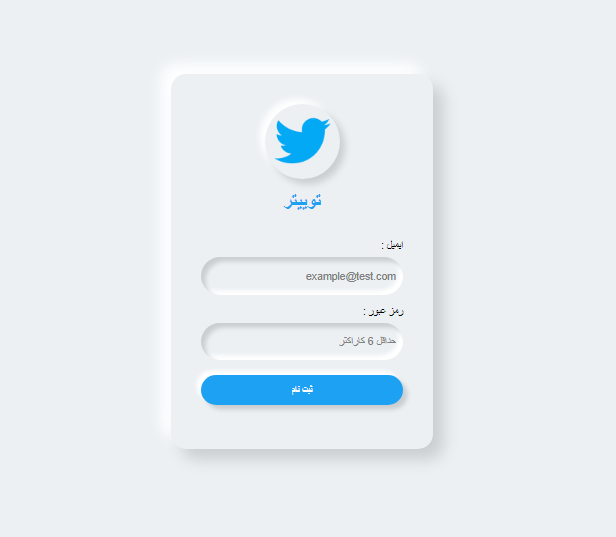
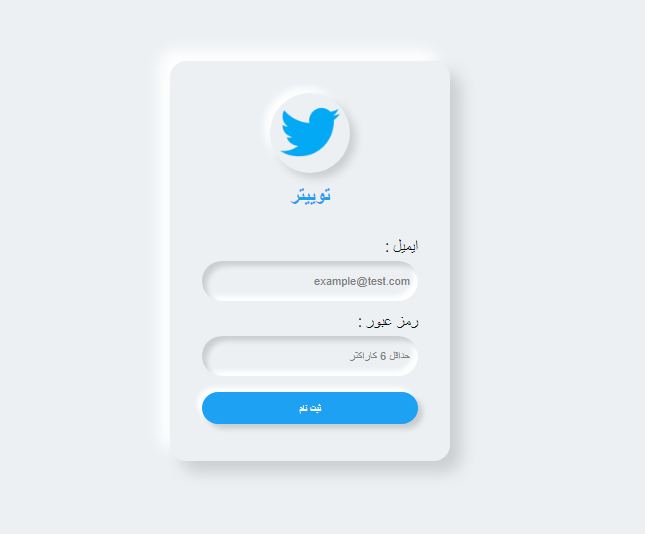
add form

diff --git a/Form1/components/Form/Form.js b/Form1/components/Form/Form.js
@@ -1,0 +1,130 @@
+import React from "react";
+import "./Form.css";
+
+export default class App extends React.Component {
+
+    constructor(props) {
+        super(props)
+
+        this.state = {
+            firstNameData: '',
+            lastNameData: '',
+            emailData: '',
+
+            submitted: false,
+
+            allValid: false
+        }
+
+        this.firstNameData = this.firstNameData.bind(this)
+        this.lastNameData = this.lastNameData.bind(this)
+        this.emailData = this.emailData.bind(this)
+        this.submitHandler = this.submitHandler.bind(this)
+    }
+
+    firstNameData(event) {
+        console.log('click');
+        this.setState({
+            firstNameData: event.target.value
+        })
+    }
+
+    lastNameData(event) {
+        console.log('click');
+        this.setState({
+            lastNameData: event.target.value
+        })
+    }
+    emailData(event) {
+        console.log('click');
+        this.setState({
+            emailData: event.target.value
+        })
+    }
+
+    submitHandler(event) {
+        let { firstNameData, lastNameData, emailData } = { ...this.state }
+
+        event.preventDefault()
+        this.setState({
+            submitted: true
+        })
+        
+        firstNameData && lastNameData && emailData && this.setState({
+            allValid: true
+        })
+
+        setTimeout(() => {
+            this.setState({
+                allValid: false
+            })
+        }, 4000)
+
+    }
+
+
+
+
+    render() {
+        return (
+            <div className="form-container">
+                <form className="register-form" onSubmit={this.submitHandler} autoComplete="off">
+                    {/* Uncomment the next line to show the success message */}
+                    {this.state.submitted && this.state.allValid && (
+                        <div className="success-message">Success! Thank you for registering</div>
+                    )}
+                    <input
+                        id="first-name"
+                        className="form-field"
+                        onChange={this.firstNameData}
+                        type="text"
+                        placeholder="First Name"
+                        name="firstName"
+                        value={this.state.firstNameData}
+                    />
+                    {/* Uncomment the next line to show the error message */}
+
+                    {this.state.submitted && !this.state.firstNameData && (
+                        <span id="first-name-error">Please enter a first name</span>
+                    )}
+
+                    <input
+                        id="last-name"
+                        className="form-field"
+                        onChange={this.lastNameData}
+                        type="text"
+                        placeholder="Last Name"
+                        name="lastName"
+                        value={this.state.lastNameData}
+
+                    />
+                    {/* Uncomment the next line to show the error message */}
+
+                    {this.state.submitted && !this.state.lastNameData && (
+                        <span id="last-name-error">Please enter a last name</span>
+                    )}
+
+                    <input
+                        id="email"
+                        className="form-field"
+                        onChange={this.emailData}
+                        type="text"
+                        placeholder="Email"
+                        name="email"
+                        value={this.state.emailData}
+                    />
+                    {/* Uncomment the next line to show the error message */}
+
+                    {this.state.submitted && !this.state.emailData && (
+                        <span id="email-error">Please enter an email address</span>
+                    )}
+
+                    <button className="form-field" type="submit">
+                        Register
+                    </button>
+                </form>
+            </div>
+
+        )
+    }
+}

diff --git a/Form/Form/Form.js b/Form/Form/Form.js
@@ -8,19 +8,34 @@ export default class Form extends Component {
             email: '',
             password: ''
         }
+        this.emailHandlering = this.emailHandlering.bind(this)
+        this.passwordHandlering = this.passwordHandlering.bind(this)
     }
+
+    emailHandlering(event) {
+        this.setState({
+            email: event.nativeEvent.target.value
+        })
+    }
+    passwordHandlering(event) {
+        this.setState({
+            password: event.nativeEvent.target.value
+        })
+    }
+
+
     render() {
         return (
 
-            <div class="container">
-                <div class="brand-logo">
+            <div className="container">
+                <div className="brand-logo">
                 </div>
-                <div class="brand-title">توییتر</div>
-                <div class="inputs">
+                <div className="brand-title">توییتر</div>
+                <div className="inputs">
                     <label>ایمیل :</label>
-                    <input type="email" placeholder="example@test.com" />
+                    <input type="email" value={this.state.email} onChange={this.emailHandlering} placeholder="example@test.com" />
                     <label>رمز عبور :</label>
-                    <input type="password" placeholder="حداقل 6 کاراکتر" />
+                    <input type="password" value={this.state.password} onChange={this.passwordHandlering} placeholder="حداقل 6 کاراکتر" />
                     <button type="submit">ثبت نام</button>
                 </div>
             </div>

diff --git a/Form1/components/Form/Form.css b/Form1/components/Form/Form.css
@@ -1,0 +1,87 @@
+@import url(https://fonts.googleapis.com/css?family=Roboto:300);
+
+body {
+  background: #76b852;
+  display: flex;
+  min-height: 100vh;
+  justify-content: center;
+  align-items: center;
+}
+
+.form-container {
+  width: 360px;
+  background-color: white;
+  margin: auto;
+  box-shadow: 0 0 20px 0 rgba(0, 0, 0, 0.2), 0 5px 5px 0 rgba(0, 0, 0, 0.24);
+  padding: 10px;
+  border-radius: 15px;
+}
+
+::placeholder {
+  text-align: center;
+  color: #09ac0e;
+}
+
+#first-name-error,
+#last-name-error,
+#email-error {
+  text-align: right;
+  color: #bb0e0e;
+}
+
+.register-form {
+  display: flex;
+  flex-direction: column;
+  justify-content: space-evenly;
+  padding: 10px;
+}
+
+.success-message {
+  font-family: "Roboto", sans-serif;
+  background-color: #1f42dd;
+  padding: 15px;
+  color: white;
+  border-radius: 10px;
+  text-align: center;
+}
+
+
+.form-field {
+  margin: 10px 0 10px 0;
+  padding: 15px;
+  font-size: 16px;
+  border: 0;
+  font-family: "Roboto", sans-serif;
+}
+
+span {
+  font-family: "Roboto", sans-serif;
+  font-size: 14px;
+  color: red;
+  margin-bottom: 15px;
+}
+
+input {
+  background: #f2f2f2;
+  box-shadow: 0 0 5px rgb(95, 209, 101);
+  border-radius: 10px;
+  outline: 0;
+  text-align: center;
+  color: rgb(43, 182, 8);
+}
+
+.error {
+  border-style: solid;
+  border: 2px solid #ffa4a4;
+}
+
+button {
+  background: #13e41a;
+  color: rgb(255, 255, 255);
+  cursor: pointer;
+  border-radius: 10px;
+}
+
+button:disabled {
+  cursor: default;
+}

diff --git a/Form/Form/Form.css b/Form/Form/Form.css
@@ -43,6 +43,8 @@ body {
 label {
     display: block;
     text-align: right;
+    color: #0e0f0f;
+    font-size: 1.4rem;
 
 }
 
@@ -105,7 +107,7 @@ button {
 
 button:hover {
     box-shadow: none;
-    background-color: #6529f1;
+    background-color: #1986ca;
 }
 
 a {

diff --git a/Form1/App.js b/Form1/App.js
@@ -1,0 +1,21 @@
+import React, { Component, Fragment } from 'react'
+import './App.css';
+import Form from './components/Form/Form'
+
+
+
+
+
+export default class App extends Component {
+
+
+
+  render() {
+    return (
+        <Form></Form>
+    )
+  }
+}
+
+
+
